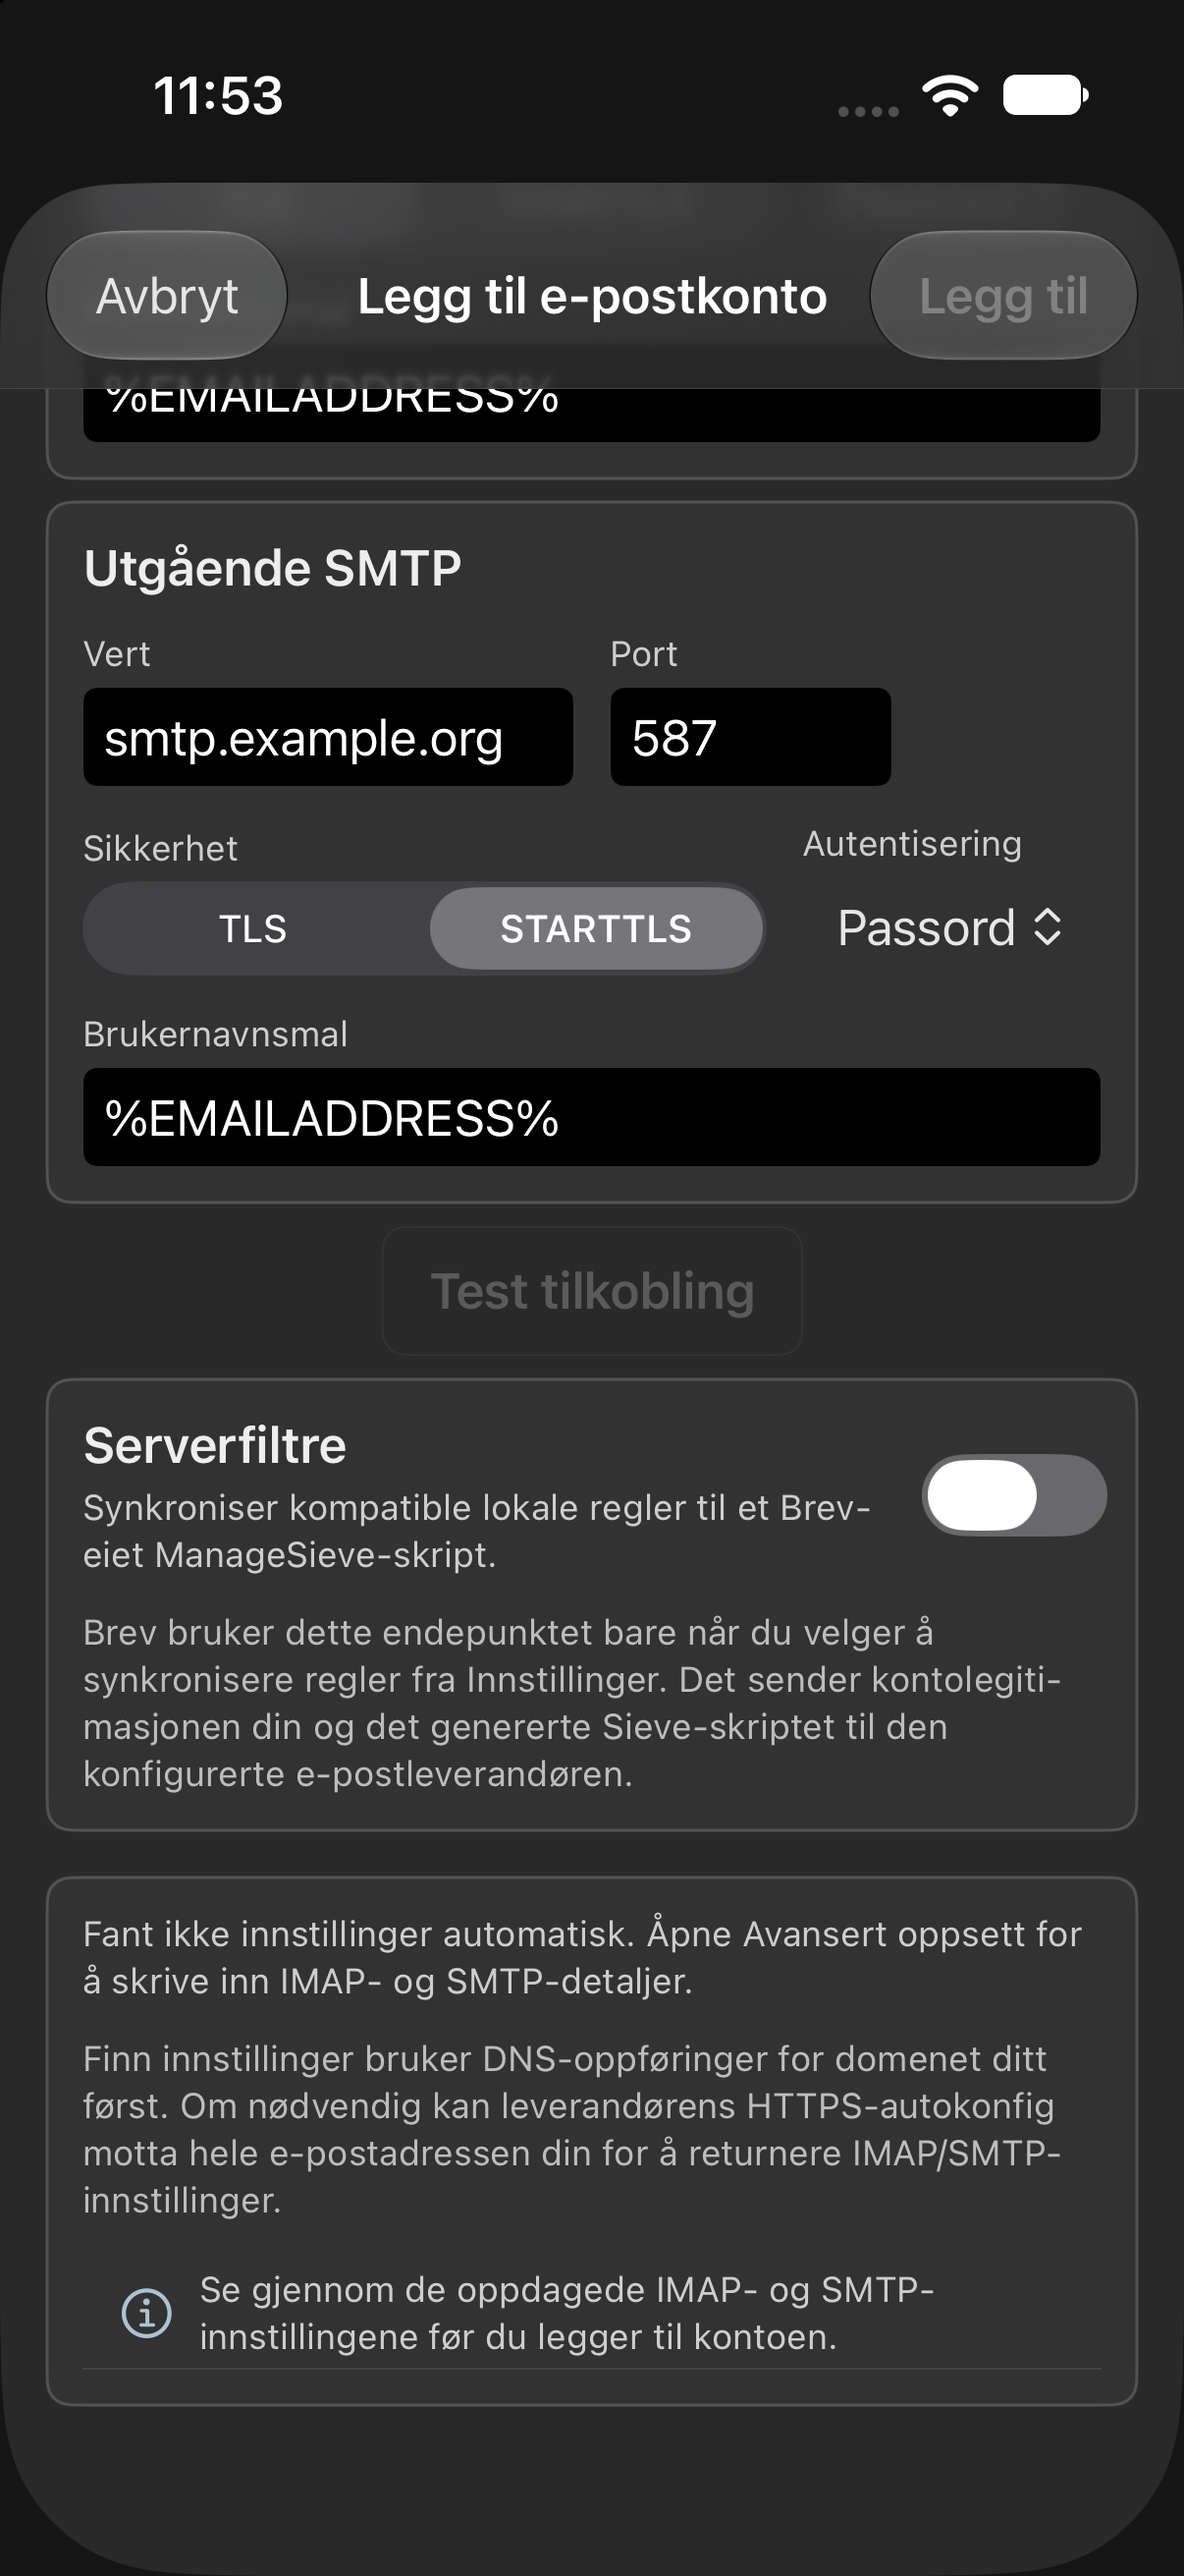
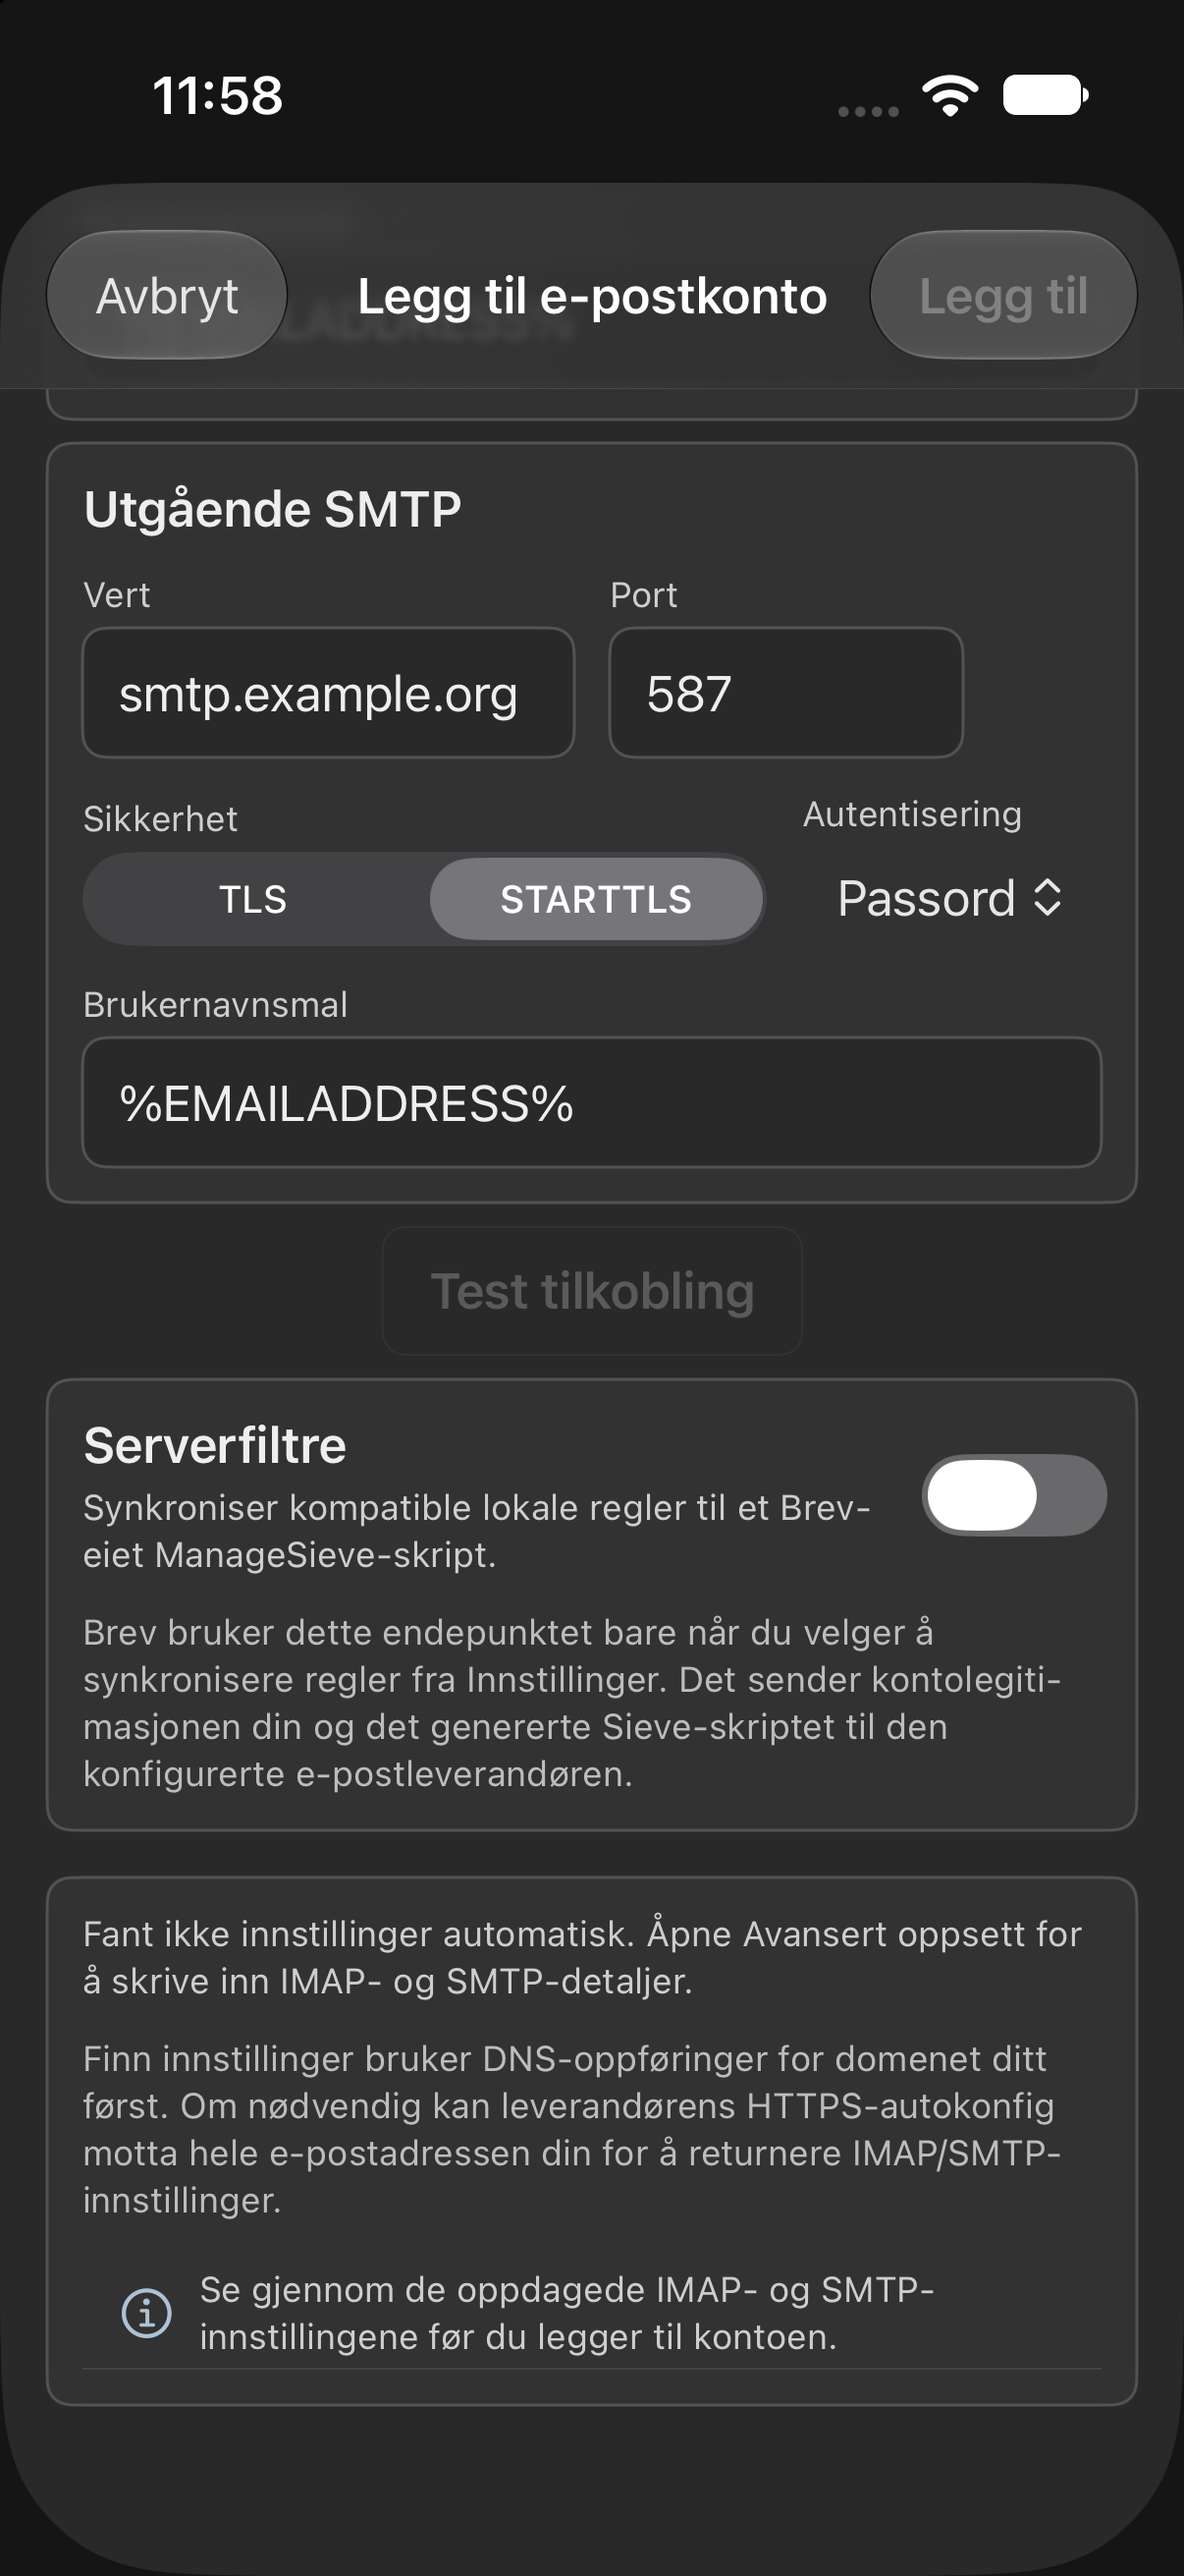
fix(ios): themed text fields and one-row provider shortcuts in add-account sheet
Replace the system rounded-border fields with theme surfaces on iOS and lay the provider shortcuts out in a wrapping row of compact themed buttons.

Changed region(s): [[0.0307, 0.1236, 0.9511, 0.4634]]

diff --git a/packages/BrevMail/Sources/BrevMail/IMAPAccountSetupSheet.swift b/packages/BrevMail/Sources/BrevMail/IMAPAccountSetupSheet.swift
@@ -325,13 +325,9 @@ public struct IMAPAccountSetupSheet: View {
                         .brevFont(.caption)
                         .foregroundStyle(theme.textTertiary.color)
 
-                    ViewThatFits(in: .horizontal) {
-                        HStack(spacing: BrevSpacing.sm) {
-                            advancedSetupShortcuts
-                        }
-                        VStack(alignment: .leading, spacing: BrevSpacing.sm) {
-                            advancedSetupShortcuts
-                        }
+                    // One row; wraps only when the buttons no longer fit.
+                    FlowLayout(spacing: BrevSpacing.sm) {
+                        advancedSetupShortcuts
                     }
 
                     if showsAdvancedServerFields {
@@ -358,11 +354,32 @@ public struct IMAPAccountSetupSheet: View {
     @ViewBuilder
     private var advancedSetupShortcuts: some View {
         ForEach(IMAPAccountSetupPresentation.SkipShortcut.allCases) { shortcut in
+            #if os(iOS)
+            // Compact variant of the secondary BrevButton so all three
+            // shortcuts fit one row on iPhone widths.
+            Button {
+                applySkip(shortcut)
+            } label: {
+                Text(verbatim: shortcut.title)
+                    .brevFont(.subheadline)
+                    .foregroundStyle(theme.textPrimary.color)
+                    .padding(.horizontal, BrevSpacing.md)
+                    .frame(minHeight: 44)
+                    .overlay {
+                        RoundedRectangle(cornerRadius: BrevRadius.md)
+                            .stroke(theme.border.color, lineWidth: 1)
+                    }
+                    .contentShape(RoundedRectangle(cornerRadius: BrevRadius.md))
+            }
+            .buttonStyle(.plain)
+            .disabled(isDiscovering || session.isSigningIn)
+            .opacity(isDiscovering || session.isSigningIn ? 0.5 : 1)
+            #else
             BrevButton(verbatim: shortcut.title, style: .secondary) {
                 applySkip(shortcut)
             }
             .disabled(isDiscovering || session.isSigningIn)
-            .imapSetupTouchTarget()
+            #endif
         }
     }
 
@@ -811,8 +828,16 @@ public struct IMAPAccountSetupSheet: View {
     ) -> some View {
         VStack(alignment: .leading, spacing: BrevSpacing.xs) {
             fieldLabel(title)
+            #if os(iOS)
+            // The system rounded-border style paints near-black boxes inside
+            // the themed card in dark mode; use theme surfaces instead.
+            content()
+                .textFieldStyle(.plain)
+                .setupFieldSurface(theme: theme)
+            #else
             content()
                 .textFieldStyle(.roundedBorder)
+            #endif
         }
         .frame(maxWidth: .infinity, alignment: .leading)
     }
@@ -1277,6 +1302,19 @@ private extension View {
         #else
         self
         #endif
+    }
+
+    func setupFieldSurface(theme: BrevTheme) -> some View {
+        brevFont(.body)
+            .foregroundStyle(theme.textPrimary.color)
+            .padding(.horizontal, BrevSpacing.md)
+            .frame(minHeight: 44)
+            .background(theme.bgPrimary.color)
+            .clipShape(RoundedRectangle(cornerRadius: BrevRadius.md))
+            .overlay {
+                RoundedRectangle(cornerRadius: BrevRadius.md)
+                    .stroke(theme.border.color, lineWidth: 1)
+            }
     }
 
     func setupSectionSurface(theme: BrevTheme) -> some View {
